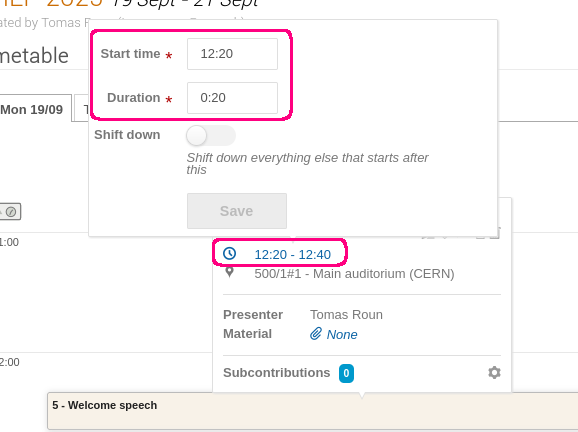
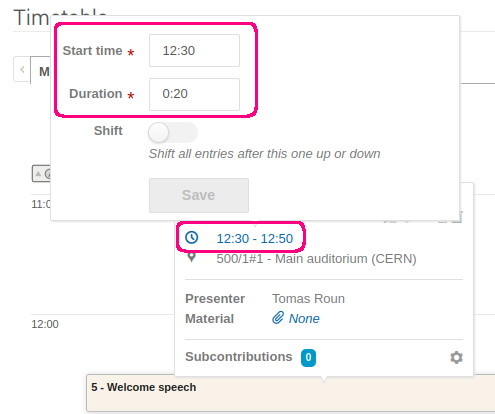
Improve wording & update screenshots

diff --git a/docs/conferences/timetable.md b/docs/conferences/timetable.md
@@ -19,7 +19,7 @@ An example of a meeting timetable might look like this:
 
 ![](../assets/meetings/timetable/finished_timetable.png)
 
-This timetable only uses contributions and breaks. Many meetings are relatively simple and don't require the use of session blocks which are normally used in conferences, however it is still possible to use them nonetheless.
+This timetable only uses contributions. Many meetings are relatively simple and don't require the use of breaks or session blocks which are normally used in conferences, however it is still possible to use them nonetheless.
 
 An example conference timetable might look like this:
 
@@ -31,27 +31,27 @@ Using the detailed view:
 
 In this timetable, there is one top-level contribution (Welcome speech) and two sessions (Talks & Workshops). The _Talks_ session has two scheduled session blocks, morning and afternoon, with several contributions in each block. There is also a break between the two blocks. The Workshops session has only one scheduled session block with several contributions in it.
 
-Note that despite the event having two sessions, the timetable only contains sessions blocks as sessions cannot be scheduled directly. Even if a session has only session block like the _Workshops_ session in the example, a session blocks needs to be created regardless.
+Note that despite the event having two sessions, the timetable only contains sessions blocks as sessions cannot be scheduled directly. Even if a session has only one session block like the _Workshops_ session in the example above, a session block needs to be created regardless.
 
-Besides contributions, there exist also subcontributions which can be created inside a contribution. However, these are simply part of its parent contribution and cannot be individually scheduled. 
+Besides contributions, there exist also subcontributions which can be created inside a contribution. However, these are simply part of its parent contribution and cannot be individually scheduled in the timetable. 
 
 ### Creating a timetable
 
 In this section, we will show how to create an event timetable using session blocks, contributions and breaks.
 
-Note that contributions have a slightly different behaviour in meetings and conferences. In a meeting, a contribution is an entry in the timetable representing a talk or a discussion item and it has no other purpose outside the timetable. In conferences, contributions are much more versatile and besides the timetable, they are also used for the Call for abstracts and the Peer reviewing and Editing modules.
+Note that contributions have a slightly different behaviour in meetings and conferences. In a meeting, a contribution is an entry in the timetable representing a talk or a discussion item and it has no other purpose outside the timetable. In conferences, contributions are much more versatile and besides the timetable, they are also used for the [Call for abstracts](./cfa.md) and the [Peer reviewing](./papers/introduction.md) and [Editing](./papers/introduction.md) modules.
 
 #### Contributions
 
-We will start with the simplest case, which is simply adding contributions to the timetable without using any session blocks. To schedule a contribution, first navigate to _Timetable_ in the management area of your event.
+We will start with the simplest case, which is adding contributions to the timetable without using any session blocks.
 
-This opens the top-level view of the timetable. If your event lasts multiple days, you will see at the top tabs with multiple days. Switching between them will show you the programme for the given day.
+To schedule a contribution, first navigate to _Timetable_ in the management area of your event. This opens the top-level view of the timetable. If your event lasts multiple days, you will see at the top several tabs, each representing one day of the timetable. Switching between them will show you the programme for the given day.
 
 ![](../assets/conferences/timetable/timetable_days.png)
 
 The days you will see here depend on the start and end date of your event.
 
-To add a contribution, select a day and click on _Add new_ in the top right and then select _Contribution_ from the dropdown menu.
+To add a contribution, select a day and click on _Add new_ in the top right corner of the timetable and then select _Contribution_ from the dropdown menu.
 
 ![](../assets/conferences/timetable/add_contrib.png)
 
@@ -63,11 +63,11 @@ If you cannot find the contribution you want to schedule in the list, make sure 
 
 ![](../assets/conferences/timetable/no_session.png)
 
-The timetable also allows creating and scheduling a contribution at the same time. To do so, click again on _Add new_ and select _Contribution_ from the dropdown. Click on _Create a new one_ at the top of the dialogue.
+The timetable also allows creating and scheduling a contribution at the same time. To do so, click again on _Add new_ and select _Contribution_ from the dropdown. Then, click on _Create a new one_ at the top of the dialogue.
 
 ![](../assets/conferences/timetable/create_contrib.png)
 
-A new dialogue window will open where you must fill at least the title, start time and the duration of the contribution. In the _People_ field, you may add speakers, authors and co-authors. If you add speakers, they will be displayed under the contribution in the timetable.
+A new dialogue window will open where you must fill at least the title, start time and the duration of the contribution. In the _People_ field, you may add speakers, authors and co-authors. If you add speakers, they will be displayed under the contribution in the timetable. If you are creating a meeting timetable only speakers will be available here.
 
 ![](../assets/conferences/timetable/create_contrib_dialog.png)
 
@@ -76,11 +76,13 @@ When finished, click _Save_ and the contribution will be automatically scheduled
 !!! note
     If you have no contributions that can be scheduled, or you are creating a meeting timetable, the form to create a new contribution will open directly after clicking on _Add new_ -> _Contribution_.
 
-If you wish to change the start time of a contribution, you can simply drag it up or down in the timetable. To change the duration of a contribution, click and drag the bottom edge of the contribution. Alternatively, you can use the up and down buttons, which become visible when you hover over any item in the timetable:
+If you wish to change the start time of a contribution, you can simply drag it up or down in the timetable. Alternatively, you can use the up and down buttons, which become visible when you hover over any item in the timetable:
 
 ![](../assets/conferences/timetable/move_up_down.png)
 
-Clicking on a contribution in the timetable brings up a window showing some basic information about and lets you manage its settings. You can set the starting time and duration by clicking on the contribution and then clicking on the time:
+To change the duration of a contribution, click and drag the bottom edge of the contribution.
+
+Clicking on a contribution in the timetable brings up a window showing some basic information about it and lets you manage its settings. You can also set the starting time and duration by clicking on the contribution and then clicking on the time:
 
 ![](../assets/conferences/timetable/adjust_start_duration.png)
 
@@ -114,11 +116,11 @@ To add a new session block, click on _Add new_ and select _Session block_ from t
 
 ![](../assets/conferences/timetable/session_block.png)
 
-Under _Add another block to_, you can select the parent session. Clicking on _Create new session_ will first create a completely new session and then a new session block inside it.
+Under _Add another block to_, you can select the parent session. Clicking on _Create new session_ will first create a completely new session and then a new session block inside it. You can also create sessions from the _Sessions_ tab - see more details [here](./sessions.md).
 
-After selecting a session, a session block dialogue will open. Fill in the start time and duration and optionally the remaining fields. The session block title is optional. If you leave it empty, the session block will display the session title only. In the _Location_ field, you can select a location from the room booking module, if applicable.
+After selecting a session, a session block dialogue will open. Fill in the start time and duration and optionally the remaining fields. The session block title is optional. If you leave it empty, the session block will display the session title only. In the _Location_ field, you can select a location from the [Room booking module](../room_booking/about.md), if applicable.
 
-Finally, you can also add _Conveners_ to the session block. These are distinct from session coordinators, as explained [here](./sessions.md). Session conveners have no extra rights, similar to contribution speakers. Session conveners are displayed in the top right of the session block.
+Finally, you can also add _Conveners_ to the session block. These are distinct from session coordinators, as explained [here](./sessions.md). Session conveners have no extra rights, similar to contribution speakers. Session conveners are displayed in the top right corner of their session block.
 
 ![](../assets/conferences/timetable/block_dialog.png)
 
@@ -137,11 +139,11 @@ It is also possible to manage the session settings and protection directly from 
 !!! note
     A session block cannot span multiple days. If your session takes place over several days, create one session block for each day.
 
-Session blocks are by default created empty. In order to schedule a contribution or a break in the session block, we must first navigate to the session block timetable. To do so, click on a session block and select _Go to session block timetable_.
+Session blocks are by default created empty. In order to schedule a contribution or a break in a session block, first navigate to the session block timetable. To do so, click on a session block and select _Go to session block timetable_.
 
 ![](../assets/conferences/timetable/block_timetable.png)
 
-This opens a new page which shows session block timetable. The name of the block you are currently viewing is displayed in the top right. You can always get back to the full timetable by clicking on _Up to timetable_.
+This opens a new page which shows the session block timetable. The name of the block you are currently viewing is displayed in the top right. You can always get back to the full timetable by clicking on _Up to timetable_.
 
 ![](../assets/conferences/timetable/up_to_timetable.png)
 
@@ -159,9 +161,9 @@ To delete a session block, click on a session block and then click on the bin ic
 
 ##### Poster sessions
 
-Scheduling works differently if a session block belongs to a poster session (more details on poster sessions [here](./sessions.md)). If that is the case, any contributions inside the block are treated as posters and are scheduled in parallel, with the start and end time being the same as the parent session block. In addition, it is not possible to add a break inside a poster session.
+Scheduling works differently if a session block belongs to a poster session (more details on how to create poster sessions [here](./sessions.md)). If that is the case, contributions inside the block are treated as posters and are automatically scheduled in parallel, with the start and end time being the same as the parent session block. In addition, it is not possible to add a break inside a poster session.
 
-To schedule a contribution in a poster session, click on _Add poster_ in the top right and select the contributions you want to schedule:
+To schedule a contribution in a session block belonging to a poster session, click on _Add poster_ in the top right and select the contributions you want to schedule:
 
 ![](../assets/conferences/timetable/add_poster.png)
 
@@ -181,7 +183,7 @@ You can always edit these details later by clicking on the break, which opens a 
 
 ![](../assets/conferences/timetable/edit_break.png)
 
-To change the start time, a break can be dragged up and down just like a contribution. A duration can be adjusted by dragging the bottom edge of the break. Just like contributions, breaks can also be moved to different days or into session blocks, either by clicking on the _Move_ icon or by dragging the break over a session block.
+To change the start time, a break can be dragged up and down just like contributions and session blocks. A duration can be adjusted by dragging the bottom edge of the break. Like contributions, breaks can also be moved to different days or into session blocks, either by clicking on the _Move_ icon or by dragging the break over a session block.
 
 To delete a break, click on the bin icon and confirm by clicking _OK_.
 
@@ -200,7 +202,7 @@ To start, select either the top-level timetable or a session block timetable and
 ![](../assets/conferences/timetable/reschedule.png)
 ![](../assets/conferences/timetable/reschedule_dialog.png)
 
-Here, you can either adjust the starting time or the duration. If you choose to adjust the starting time, the first entry in the timetable will be moved so that its start time is the same as the start time of the event. In the case of a session block, the entry will be moved to start when the session block starts. All other entries will be 'stacked' after the first entry to completely fill the gaps between the entries.
+You can either adjust the starting time or the duration. If you choose to adjust the starting time, the first entry in the timetable will be moved so that its start time is the same as the start time of the event. In the case of a session block, the entry will be moved to start when the session block starts. All other entries will be 'stacked' after the first entry to completely fill the gaps between the entries.
 
 This is an example session block timetable before adjusting the start time:
 
@@ -211,7 +213,7 @@ And this is the final result. Notice that the start time was moved from 16:00 to
 ![](../assets/conferences/timetable/after_reschedule_start_time.png)
 
 The second rescheduling option, which adjusts the duration of all entries, fills the empty gap between each pair of entries by extending their duration but keeping the start time unchanged.
-If we use the previous example and adjust the durations, we will get his end result:
+If we use the previous example and adjust the durations, we will get this end result:
 
 ![](../assets/conferences/timetable/after_reschedule_duration.png)
 
@@ -244,7 +246,7 @@ You can also fit to content all session blocks in a specific day by clicking on 
 
 ### Making the timetable public (conferences only)
 
-By default, event contributions are in 'Draft mode'. This means that that regular users cannot see the list of contributions, the timetable, the book of abstracts and the author and speaker list. The draft mode exists to prevent participants from seeing the timetable while it's being created.
+By default, event contributions are in 'Draft mode'. This means that regular users cannot see the list of contributions, the timetable, the book of abstracts and the author and speaker list. The draft mode exists to prevent participants from seeing the timetable while it's being created.
 
 When you want to make the timetable public, you can turn off the draft mode. To do so, navigate to the _Contributions_ page and toggle _Draft_ in the top right corner.
 

diff --git a/docs/conferences/sessions.md b/docs/conferences/sessions.md
@@ -7,7 +7,9 @@ In this part, we will cover how to create and manage sessions from the organizer
 
 ### Creating a session type
 
-Before creating a session, we will first create a session type. Session types can help you better organize your sessions but they are not required unless you want to use poster sessions (see the [timetable page](./timetable.md) for more details). To create a new session type, navigate to the management area of an event and select _Sessions_ under _Organization_.
+Before creating a session, we will first create a session type. Session types can help you better organize your sessions but they are not required unless you want to use poster sessions (see the [timetable page](./timetable.md) for more details).
+
+To create a new session type, navigate to the management area of an event and select _Sessions_ under _Organisation_.
 
 ![](../assets/conferences/sessions/sessions_management.png)
 
@@ -23,12 +25,12 @@ If you toggle _Poster_, any session with this session type will become a poster 
 
 ### Creating a session
 
-To create a session, navigate to the management area of an event and select _Sessions_ under _Organization_. This page shows the list of all your sessions. To create a new session, click on _Add new session_ in the top menu.
+To create a session, navigate to the management area of an event and select _Sessions_ under _Organisation_. This page shows the list of all your sessions. To create a new session, click on _Add new session_ in the top menu.
 
 ![](../assets/conferences/sessions/create_session.png)
 
 In the dialogue window, fill in the title and optionally the remaining fields. You can select the session type from the dropdown in the _Type_ field. These are the session types we created previously. The _Default contribution duration_ field controls the default duration of contributions you schedule in this session.
-You may also choose a default location for session blocks in this session. The available locations come from the [room booking module](../room_booking/about.md). If you don't select any location, the location of the event is used as a default instead. Once you have filled in the dialogue, click on _Save_ to create the session.
+You may also choose a default location for session blocks in this session. The available locations come from the [Room booking module](../room_booking/about.md). If you don't select any location, the location of the event is used as a default instead. Once you have filled in the dialogue, click on _Save_ to create the session.
 
 ![](../assets/conferences/sessions/create_session_2.png)
 
@@ -85,3 +87,5 @@ Session coordinators are a role which comes with extra rights. They can manage t
 On the other hand, session conveners are more similar to contribution speakers in that they do not gain any extra rights over the session. Session conveners are merely the people displayed in the timetable in the top right of each session block:
 
 ![](../assets/conferences/sessions/conveners.png)
+
+See the [timetable page](./timetable.md) to learn how to assign conveners to session blocks.

diff --git a/docs/meetings/timetable.md b/docs/meetings/timetable.md
@@ -14,7 +14,7 @@ To schedule a contribution, first navigate to _Timetable_ in the management area
 
 ![](../assets/meetings/timetable/timetable_open.png)
 
-To create a new contribution, click on _Add new_ and select _Contribution_ from the dropdown menu.
+To create a new contribution, click on _Add new_ in the top right corner and select _Contribution_ from the dropdown menu.
 
 ![](../assets/meetings/timetable/contribution_select.png)
 
@@ -28,5 +28,5 @@ If you want to allow the speakers to [add minutes](./minutes.md) or [upload file
 
 When you are done filling in the data, click _Save_ to schedule the contribution. Once created, you can drag the contribution up down in the timetable to change its start time.
 
-You can repeat this step to create a contribution for every discussion item in your meeting.
+You can repeat this step to create a contribution for every discussion item in your meeting. To learn more about the timetable, you can continue reading [here](../conferences/timetable.md).
 
